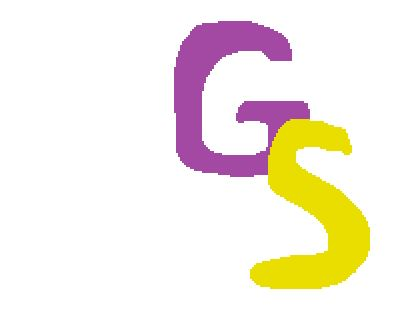
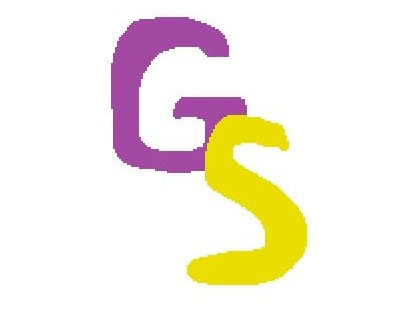
Push

Changed region(s): [[0.2494, 0.0308, 0.9041, 0.8923]]

diff --git a/index.html b/index.html
@@ -13,6 +13,7 @@
         <section class="container" id=header>
             <nav class="navbar navbar-expand-lg navbar-light bg-light">
                 <div class="container-fluid">
+                  <a id="logo" class="navbar-brand" href="#"><img class="gSuiteLogo" src="Images/Other/GS.JPG"></a>
                   <a class="navbar-brand" href="#">Games</a>
                   <button class="navbar-toggler" type="button" data-bs-toggle="collapse" data-bs-target="#navbarSupportedContent" aria-controls="navbarSupportedContent" aria-expanded="false" aria-label="Toggle navigation">
                     <span class="navbar-toggler-icon"></span>

diff --git a/css/site.css b/css/site.css
@@ -11,3 +11,13 @@
     height: 100%;
     object-fit: contain;
 }
+
+#logo img {
+    max-width: 50%;
+    max-height: 50%;
+
+}
+
+.container {
+    max-width: none !important;
+}
